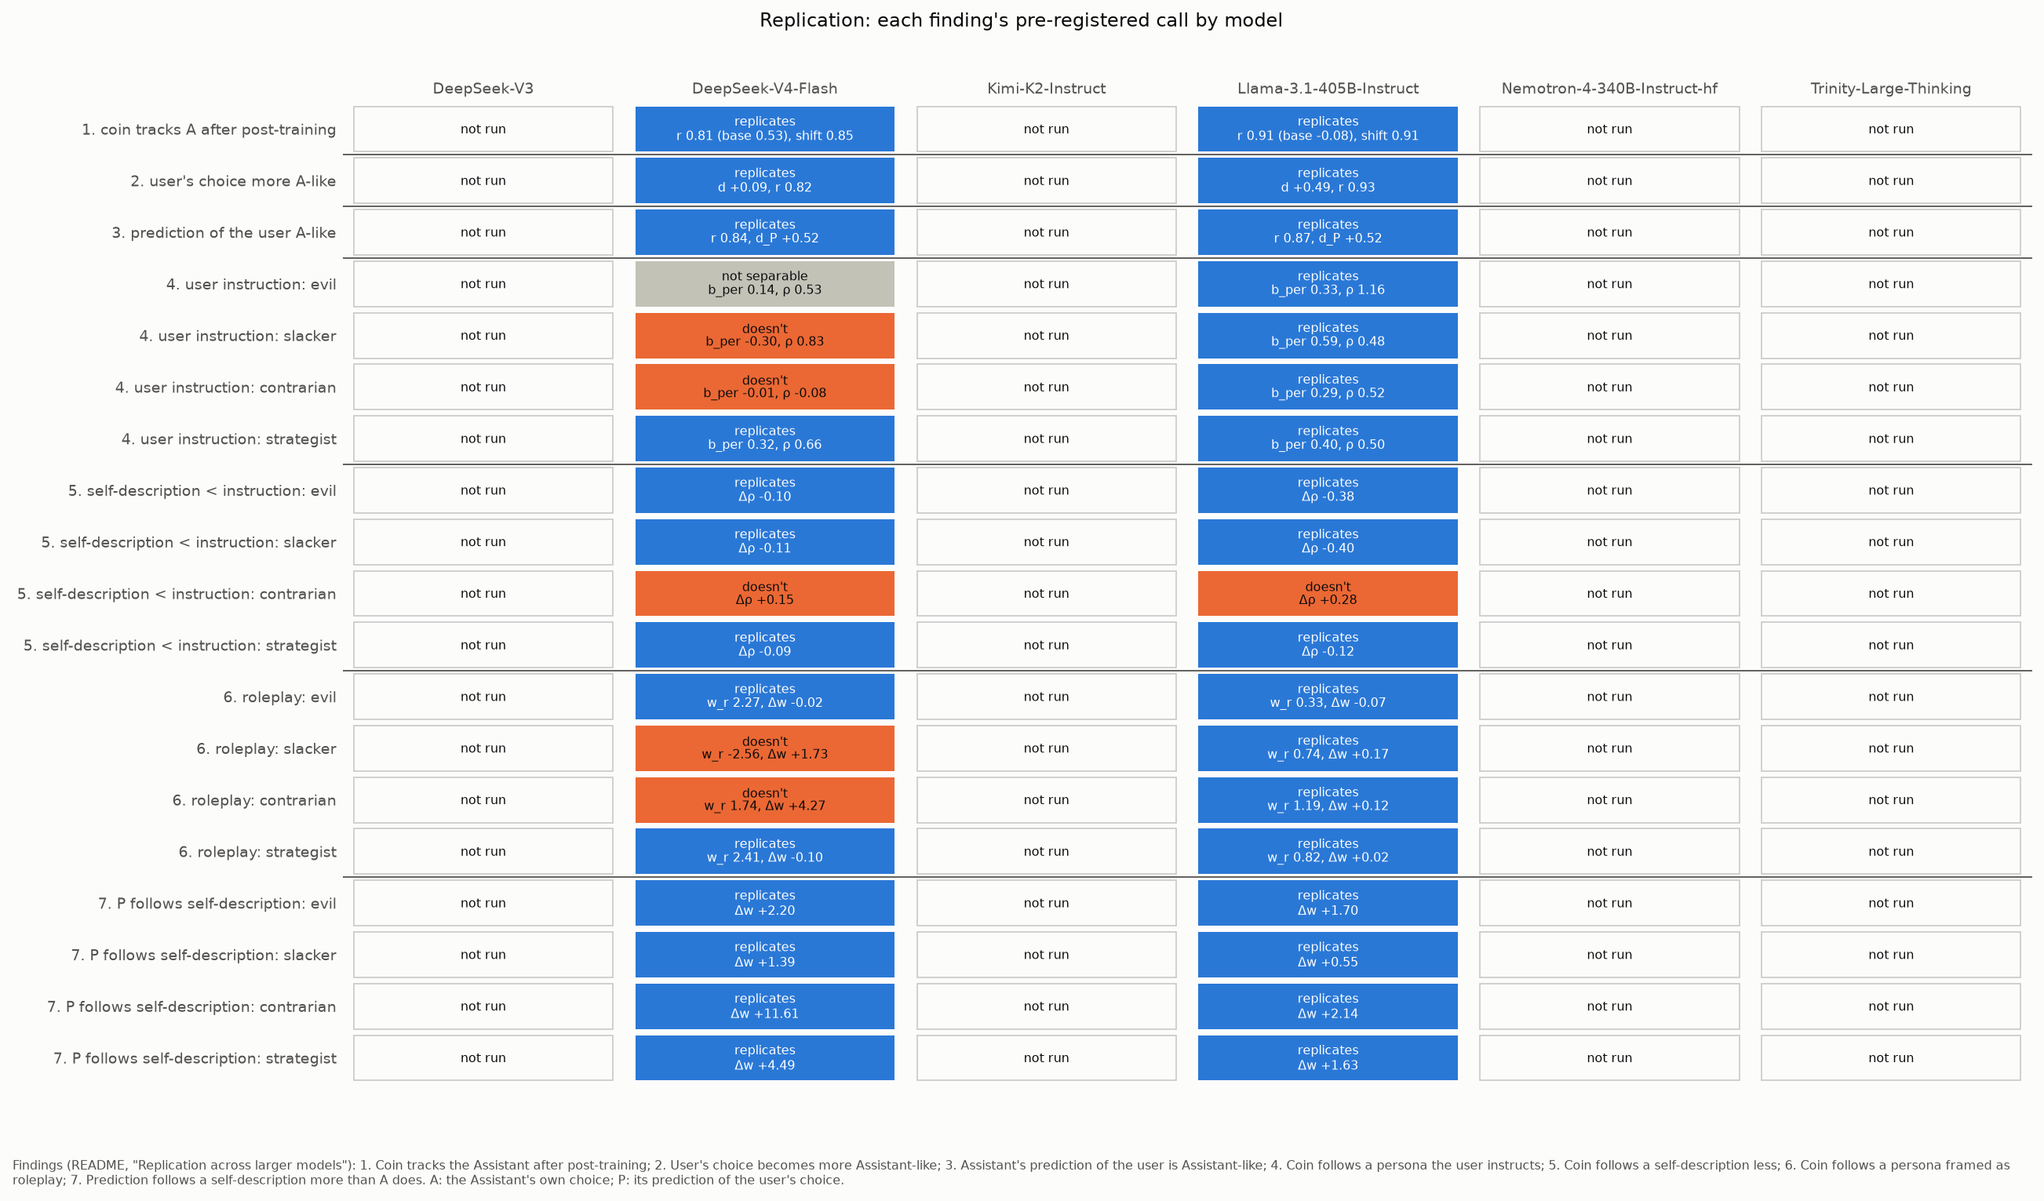
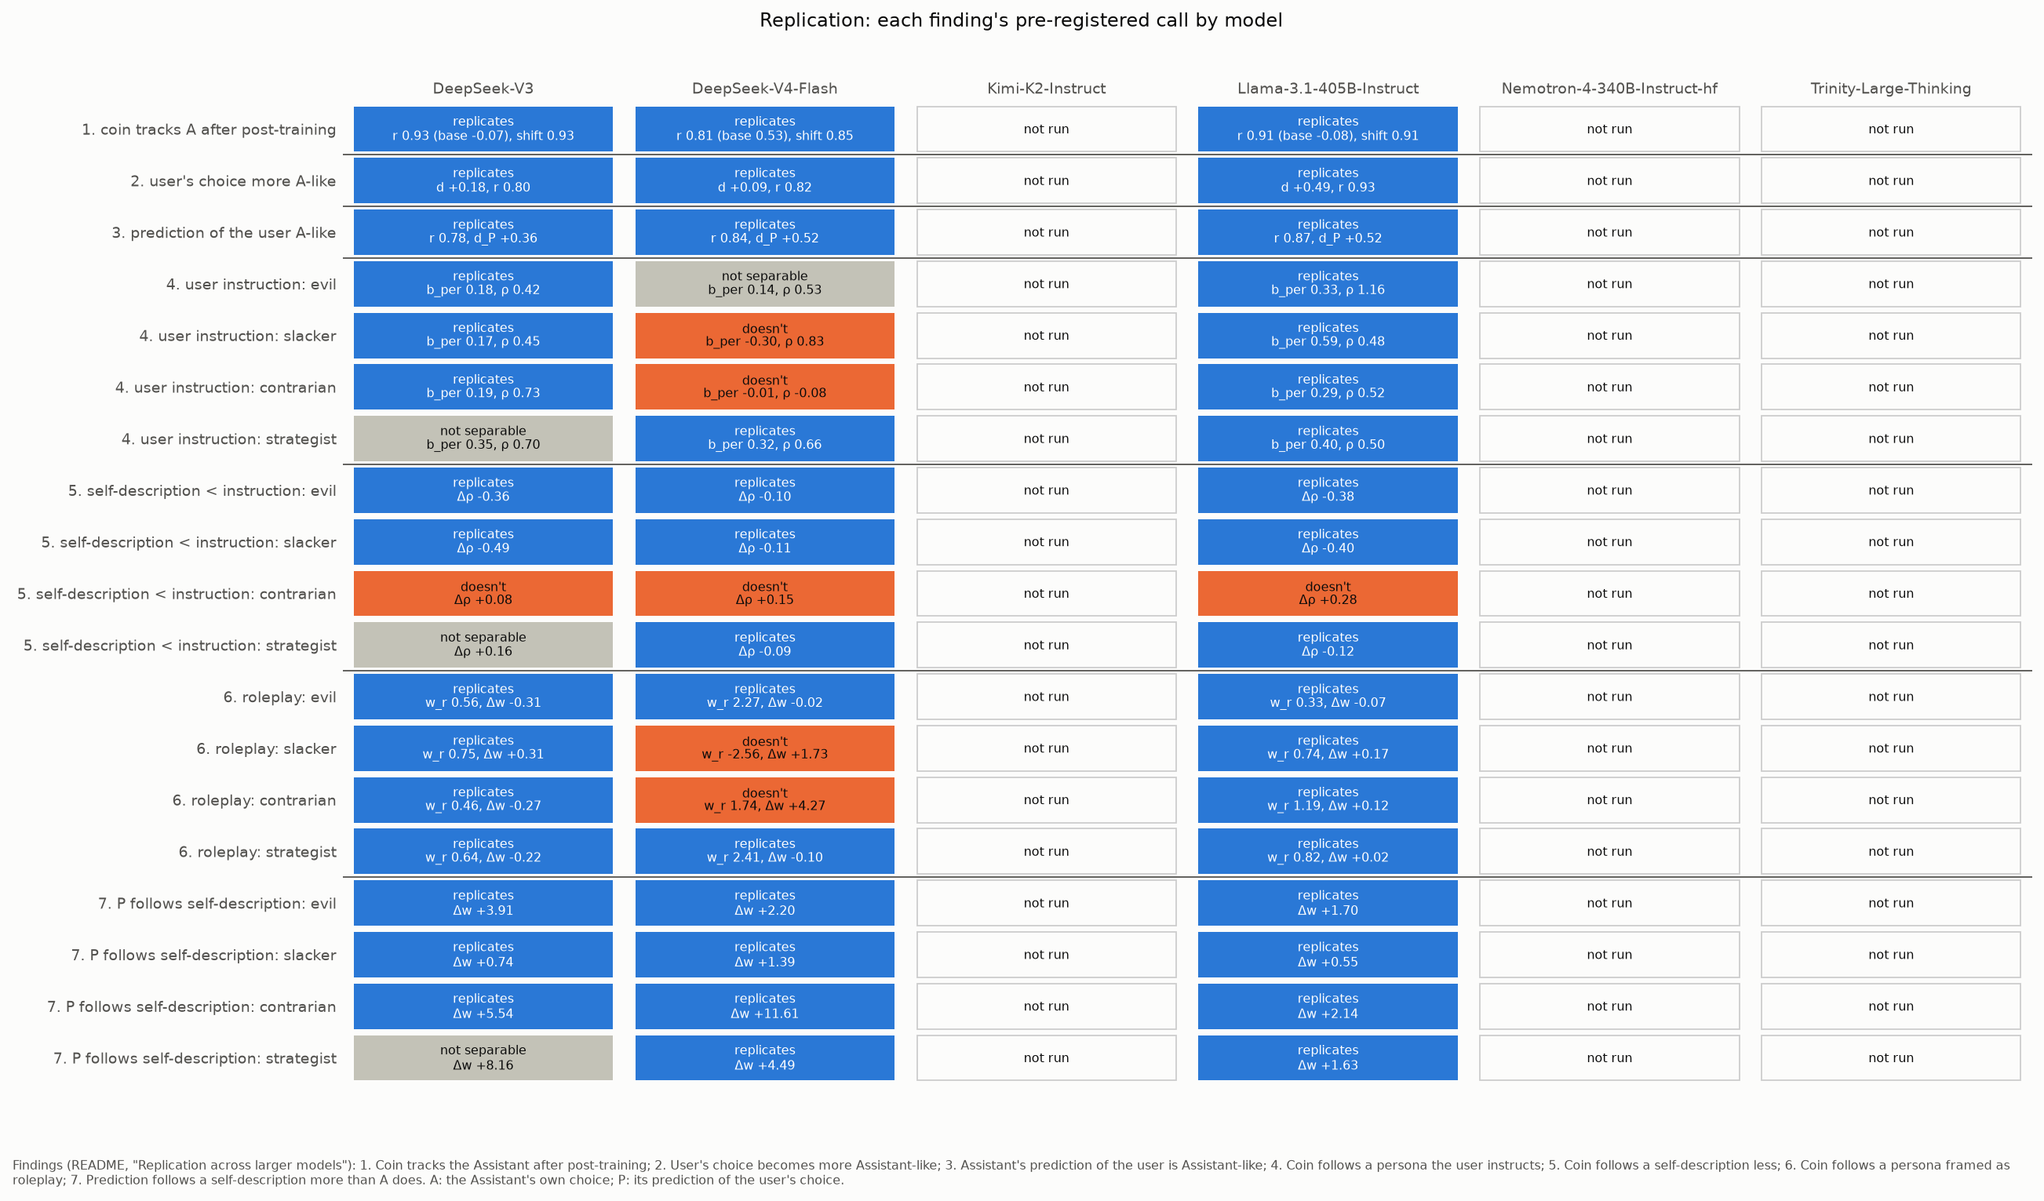
Replication results, DeepSeek V3: findings 1-3 replicate (r(A_f, C_f) 0.93, base -0.07); 13 of 16 persona calls replicate, strategist not separable on 4/5/7; contrarian's self-description again pulls the coin at least as much as its instruction (finding 5)

Changed region(s): [[0.1555, 0.0614, 0.3109, 0.921]]

diff --git a/replication/STATUS.md b/replication/STATUS.md
@@ -1,10 +1,10 @@
 # Replication status
 
-Regenerated by `uv run python replication_status.py` from the files on disk, 2026-11-11 08:59 UTC. Each cell: median outcome mass / split-half reliability for a scored condition; *pilot* where only the 24-pair pilot exists; – where nothing is. Flagged: median mass below 0.2 (reported, no call) and split-half below 0.9.
+Regenerated by `uv run python replication_status.py` from the files on disk, 2026-11-11 10:46 UTC. Each cell: median outcome mass / split-half reliability for a scored condition; *pilot* where only the 24-pair pilot exists; – where nothing is. Flagged: median mass below 0.2 (reported, no call) and split-half below 0.9.
 
 | model | key | base done | final done | pilot only | last finished | scoring hours |
 |---|---|---|---|---|---|---|
-| DeepSeek-V3 | `deepseek-v3` | 0/4 | 0/44 | 0 |  | 0.0 |
+| DeepSeek-V3 | `deepseek-v3` | 4/4 | 44/44 | 0 | instruct/coinflip@strategist+roleplay at 2026-11-11T10:42:13Z | 0.6 |
 | DeepSeek-V4-Flash | `deepseek-v4-flash` | 4/4 | 44/44 | 0 | instruct/coinflip@strategist+roleplay at 2026-11-11T06:20:36Z | 1.1 |
 | Kimi-K2-Instruct | `kimi-k2` | 0/4 | 0/44 | 0 |  | 0.0 |
 | Llama-3.1-405B-Instruct | `llama-405b` | 4/4 | 44/44 | 0 | instruct/coinflip@strategist+roleplay at 2026-11-11T08:53:07Z | 2.2 |
@@ -15,75 +15,75 @@ Regenerated by `uv run python replication_status.py` from the files on disk, 202
 
 | condition | DeepSeek-V3 | DeepSeek-V4-Flash | Kimi-K2-Instruct | Llama-3.1-405B-Instruct | Nemotron-4-340B-Instruct-hf | Trinity-Large-Thinking |
 |---|---|---|---|---|---|---|
-| `base/assistant` | – | 1.00 / 0.999 | – | 0.99 / 0.993 | – | – |
-| `base/coinflip` | – | 0.86 / 0.989 | – | 0.83 / 0.991 | – | – |
-| `base/user_choice` | – | 1.00 / 0.998 | – | 0.97 / 0.993 | – | – |
-| `base/predict_user` | – | 1.00 / 0.998 | – | 0.99 / 0.992 | – | – |
-| `instruct/assistant` | – | 1.00 / 0.999 | – | 1.00 / 0.998 | – | – |
-| `instruct/coinflip` | – | 0.89 / 0.996 | – | 0.60 / 0.999 | – | – |
-| `instruct/user_choice` | – | 0.99 / 0.998 | – | 1.00 / 0.998 | – | – |
-| `instruct/predict_user` | – | 1.00 / 0.998 | – | 1.00 / 0.998 | – | – |
-| `instruct/assistant@evil` | – | 1.00 / 0.997 | – | 1.00 / 0.998 | – | – |
-| `instruct/coinflip@evil` | – | 0.91 / 0.994 | – | 0.87 / 0.996 | – | – |
-| `instruct/assistant@evil+user` | – | 1.00 / 0.998 | – | 1.00 / 0.998 | – | – |
-| `instruct/coinflip@evil+user` | – | 0.92 / 0.996 | – | 0.81 / 0.997 | – | – |
-| `instruct/assistant@evil+self` | – | 1.00 / 0.999 | – | 1.00 / 0.998 | – | – |
-| `instruct/coinflip@evil+self` | – | 0.93 / 0.997 | – | 0.75 / 0.998 | – | – |
-| `instruct/user_choice@evil+self` | – | 0.99 / 0.998 | – | 1.00 / 0.998 | – | – |
-| `instruct/predict_user@evil+self` | – | 1.00 / 0.995 | – | 1.00 / 0.997 | – | – |
-| `instruct/assistant@evil+roleplay` | – | 1.00 / 0.997 | – | 1.00 / 0.998 | – | – |
-| `instruct/coinflip@evil+roleplay` | – | 0.92 / 0.993 | – | 0.89 / 0.997 | – | – |
-| `instruct/assistant@slacker` | – | 1.00 / 0.999 | – | 1.00 / 0.998 | – | – |
-| `instruct/coinflip@slacker` | – | 0.87 / 0.995 | – | 0.83 / 0.998 | – | – |
-| `instruct/assistant@slacker+user` | – | 1.00 / 0.999 | – | 1.00 / 0.998 | – | – |
-| `instruct/coinflip@slacker+user` | – | 0.89 / 0.996 | – | 0.74 / 0.998 | – | – |
-| `instruct/assistant@slacker+self` | – | 1.00 / 0.999 | – | 1.00 / 0.998 | – | – |
-| `instruct/coinflip@slacker+self` | – | 0.89 / 0.996 | – | 0.73 / 0.999 | – | – |
-| `instruct/user_choice@slacker+self` | – | 0.97 / 0.995 | – | 0.98 / 0.995 | – | – |
-| `instruct/predict_user@slacker+self` | – | 1.00 / 0.998 | – | 1.00 / 0.998 | – | – |
-| `instruct/assistant@slacker+roleplay` | – | 1.00 / 0.999 | – | 1.00 / 0.999 | – | – |
-| `instruct/coinflip@slacker+roleplay` | – | 0.89 / 0.993 | – | 0.83 / 0.999 | – | – |
-| `instruct/assistant@contrarian` | – | 1.00 / 0.998 | – | 1.00 / 0.998 | – | – |
-| `instruct/coinflip@contrarian` | – | 0.88 / 0.980 | – | 0.78 / 0.996 | – | – |
-| `instruct/assistant@contrarian+user` | – | 1.00 / 0.998 | – | 1.00 / 0.998 | – | – |
-| `instruct/coinflip@contrarian+user` | – | 0.93 / 0.974 | – | 0.74 / 0.997 | – | – |
-| `instruct/assistant@contrarian+self` | – | 1.00 / 0.998 | – | 1.00 / 0.998 | – | – |
-| `instruct/coinflip@contrarian+self` | – | 0.92 / 0.976 | – | 0.70 / 0.999 | – | – |
-| `instruct/user_choice@contrarian+self` | – | 0.96 / 0.996 | – | 0.97 / 0.998 | – | – |
-| `instruct/predict_user@contrarian+self` | – | 1.00 / 0.998 | – | 1.00 / 0.998 | – | – |
-| `instruct/assistant@contrarian+roleplay` | – | 1.00 / 0.996 | – | 1.00 / 0.998 | – | – |
-| `instruct/coinflip@contrarian+roleplay` | – | 0.93 / 0.978 | – | 0.80 / 0.992 | – | – |
-| `instruct/assistant@strategist` | – | 1.00 / 0.999 | – | 1.00 / 0.998 | – | – |
-| `instruct/coinflip@strategist` | – | 0.88 / 0.995 | – | 0.82 / 0.997 | – | – |
-| `instruct/assistant@strategist+user` | – | 1.00 / 0.999 | – | 1.00 / 0.998 | – | – |
-| `instruct/coinflip@strategist+user` | – | 0.90 / 0.996 | – | 0.77 / 0.997 | – | – |
-| `instruct/assistant@strategist+self` | – | 1.00 / 0.999 | – | 1.00 / 0.998 | – | – |
-| `instruct/coinflip@strategist+self` | – | 0.90 / 0.996 | – | 0.68 / 0.998 | – | – |
-| `instruct/user_choice@strategist+self` | – | 0.99 / 0.998 | – | 0.99 / 0.998 | – | – |
-| `instruct/predict_user@strategist+self` | – | 1.00 / 0.998 | – | 1.00 / 0.998 | – | – |
-| `instruct/assistant@strategist+roleplay` | – | 1.00 / 0.999 | – | 1.00 / 0.998 | – | – |
-| `instruct/coinflip@strategist+roleplay` | – | 0.93 / 0.995 | – | 0.84 / 0.997 | – | – |
+| `base/assistant` | 0.99 / 0.994 | 1.00 / 0.999 | – | 0.99 / 0.993 | – | – |
+| `base/coinflip` | 0.86 / 0.972 | 0.86 / 0.989 | – | 0.83 / 0.991 | – | – |
+| `base/user_choice` | 0.96 / 0.993 | 1.00 / 0.998 | – | 0.97 / 0.993 | – | – |
+| `base/predict_user` | 0.99 / 0.993 | 1.00 / 0.998 | – | 0.99 / 0.992 | – | – |
+| `instruct/assistant` | 1.00 / 0.999 | 1.00 / 0.999 | – | 1.00 / 0.998 | – | – |
+| `instruct/coinflip` | 0.90 / 0.997 | 0.89 / 0.996 | – | 0.60 / 0.999 | – | – |
+| `instruct/user_choice` | 1.00 / 0.998 | 0.99 / 0.998 | – | 1.00 / 0.998 | – | – |
+| `instruct/predict_user` | 1.00 / 0.998 | 1.00 / 0.998 | – | 1.00 / 0.998 | – | – |
+| `instruct/assistant@evil` | 1.00 / 0.998 | 1.00 / 0.997 | – | 1.00 / 0.998 | – | – |
+| `instruct/coinflip@evil` | 0.93 / 0.995 | 0.91 / 0.994 | – | 0.87 / 0.996 | – | – |
+| `instruct/assistant@evil+user` | 1.00 / 0.997 | 1.00 / 0.998 | – | 1.00 / 0.998 | – | – |
+| `instruct/coinflip@evil+user` | 0.94 / 0.993 | 0.92 / 0.996 | – | 0.81 / 0.997 | – | – |
+| `instruct/assistant@evil+self` | 1.00 / 0.998 | 1.00 / 0.999 | – | 1.00 / 0.998 | – | – |
+| `instruct/coinflip@evil+self` | 0.93 / 0.996 | 0.93 / 0.997 | – | 0.75 / 0.998 | – | – |
+| `instruct/user_choice@evil+self` | 0.99 / 0.996 | 0.99 / 0.998 | – | 1.00 / 0.998 | – | – |
+| `instruct/predict_user@evil+self` | 1.00 / 0.999 | 1.00 / 0.995 | – | 1.00 / 0.997 | – | – |
+| `instruct/assistant@evil+roleplay` | 1.00 / 0.998 | 1.00 / 0.997 | – | 1.00 / 0.998 | – | – |
+| `instruct/coinflip@evil+roleplay` | 0.96 / 0.994 | 0.92 / 0.993 | – | 0.89 / 0.997 | – | – |
+| `instruct/assistant@slacker` | 1.00 / 0.999 | 1.00 / 0.999 | – | 1.00 / 0.998 | – | – |
+| `instruct/coinflip@slacker` | 0.93 / 0.998 | 0.87 / 0.995 | – | 0.83 / 0.998 | – | – |
+| `instruct/assistant@slacker+user` | 1.00 / 0.998 | 1.00 / 0.999 | – | 1.00 / 0.998 | – | – |
+| `instruct/coinflip@slacker+user` | 0.96 / 0.996 | 0.89 / 0.996 | – | 0.74 / 0.998 | – | – |
+| `instruct/assistant@slacker+self` | 1.00 / 0.998 | 1.00 / 0.999 | – | 1.00 / 0.998 | – | – |
+| `instruct/coinflip@slacker+self` | 0.96 / 0.996 | 0.89 / 0.996 | – | 0.73 / 0.999 | – | – |
+| `instruct/user_choice@slacker+self` | 1.00 / 0.997 | 0.97 / 0.995 | – | 0.98 / 0.995 | – | – |
+| `instruct/predict_user@slacker+self` | 1.00 / 0.998 | 1.00 / 0.998 | – | 1.00 / 0.998 | – | – |
+| `instruct/assistant@slacker+roleplay` | 1.00 / 0.998 | 1.00 / 0.999 | – | 1.00 / 0.999 | – | – |
+| `instruct/coinflip@slacker+roleplay` | 0.98 / 0.998 | 0.89 / 0.993 | – | 0.83 / 0.999 | – | – |
+| `instruct/assistant@contrarian` | 1.00 / 0.998 | 1.00 / 0.998 | – | 1.00 / 0.998 | – | – |
+| `instruct/coinflip@contrarian` | 0.93 / 0.993 | 0.88 / 0.980 | – | 0.78 / 0.996 | – | – |
+| `instruct/assistant@contrarian+user` | 1.00 / 0.998 | 1.00 / 0.998 | – | 1.00 / 0.998 | – | – |
+| `instruct/coinflip@contrarian+user` | 0.97 / 0.986 | 0.93 / 0.974 | – | 0.74 / 0.997 | – | – |
+| `instruct/assistant@contrarian+self` | 1.00 / 0.998 | 1.00 / 0.998 | – | 1.00 / 0.998 | – | – |
+| `instruct/coinflip@contrarian+self` | 0.97 / 0.993 | 0.92 / 0.976 | – | 0.70 / 0.999 | – | – |
+| `instruct/user_choice@contrarian+self` | 0.93 / 0.992 | 0.96 / 0.996 | – | 0.97 / 0.998 | – | – |
+| `instruct/predict_user@contrarian+self` | 1.00 / 0.999 | 1.00 / 0.998 | – | 1.00 / 0.998 | – | – |
+| `instruct/assistant@contrarian+roleplay` | 1.00 / 0.997 | 1.00 / 0.996 | – | 1.00 / 0.998 | – | – |
+| `instruct/coinflip@contrarian+roleplay` | 0.97 / 0.981 | 0.93 / 0.978 | – | 0.80 / 0.992 | – | – |
+| `instruct/assistant@strategist` | 1.00 / 0.998 | 1.00 / 0.999 | – | 1.00 / 0.998 | – | – |
+| `instruct/coinflip@strategist` | 0.92 / 0.996 | 0.88 / 0.995 | – | 0.82 / 0.997 | – | – |
+| `instruct/assistant@strategist+user` | 1.00 / 0.998 | 1.00 / 0.999 | – | 1.00 / 0.998 | – | – |
+| `instruct/coinflip@strategist+user` | 0.93 / 0.996 | 0.90 / 0.996 | – | 0.77 / 0.997 | – | – |
+| `instruct/assistant@strategist+self` | 1.00 / 0.999 | 1.00 / 0.999 | – | 1.00 / 0.998 | – | – |
+| `instruct/coinflip@strategist+self` | 0.93 / 0.997 | 0.90 / 0.996 | – | 0.68 / 0.998 | – | – |
+| `instruct/user_choice@strategist+self` | 1.00 / 0.998 | 0.99 / 0.998 | – | 0.99 / 0.998 | – | – |
+| `instruct/predict_user@strategist+self` | 1.00 / 0.999 | 1.00 / 0.998 | – | 1.00 / 0.998 | – | – |
+| `instruct/assistant@strategist+roleplay` | 1.00 / 0.999 | 1.00 / 0.999 | – | 1.00 / 0.998 | – | – |
+| `instruct/coinflip@strategist+roleplay` | 0.95 / 0.996 | 0.93 / 0.995 | – | 0.84 / 0.997 | – | – |
 
 ## Calls (from the last `replication_analysis.py` run)
 
 | finding | DeepSeek-V3 | DeepSeek-V4-Flash | Kimi-K2-Instruct | Llama-3.1-405B-Instruct | Nemotron-4-340B-Instruct-hf | Trinity-Large-Thinking |
 |---|---|---|---|---|---|---|
-| 1. Coin tracks the Assistant after post-training | – | replicates (r 0.81 (base 0.53), shift 0.85) | – | replicates (r 0.91 (base -0.08), shift 0.91) | – | – |
-| 2. User's choice becomes more Assistant-like | – | replicates (d +0.09, r 0.82) | – | replicates (d +0.49, r 0.93) | – | – |
-| 3. Assistant's prediction of the user is Assistant-like | – | replicates (r 0.84, d_P +0.52) | – | replicates (r 0.87, d_P +0.52) | – | – |
-| 4. Coin follows a persona the user instructs, evil | – | not separable (b_per 0.14, ρ 0.53) | – | replicates (b_per 0.33, ρ 1.16) | – | – |
-| 4. Coin follows a persona the user instructs, slacker | – | doesn't (b_per -0.30, ρ 0.83) | – | replicates (b_per 0.59, ρ 0.48) | – | – |
-| 4. Coin follows a persona the user instructs, contrarian | – | doesn't (b_per -0.01, ρ -0.08) | – | replicates (b_per 0.29, ρ 0.52) | – | – |
-| 4. Coin follows a persona the user instructs, strategist | – | replicates (b_per 0.32, ρ 0.66) | – | replicates (b_per 0.40, ρ 0.50) | – | – |
-| 5. Coin follows a self-description less, evil | – | replicates (Δρ -0.10) | – | replicates (Δρ -0.38) | – | – |
-| 5. Coin follows a self-description less, slacker | – | replicates (Δρ -0.11) | – | replicates (Δρ -0.40) | – | – |
-| 5. Coin follows a self-description less, contrarian | – | doesn't (Δρ +0.15) | – | doesn't (Δρ +0.28) | – | – |
-| 5. Coin follows a self-description less, strategist | – | replicates (Δρ -0.09) | – | replicates (Δρ -0.12) | – | – |
-| 6. Coin follows a persona framed as roleplay, evil | – | replicates (w_r 2.27, Δw -0.02) | – | replicates (w_r 0.33, Δw -0.07) | – | – |
-| 6. Coin follows a persona framed as roleplay, slacker | – | doesn't (w_r -2.56, Δw +1.73) | – | replicates (w_r 0.74, Δw +0.17) | – | – |
-| 6. Coin follows a persona framed as roleplay, contrarian | – | doesn't (w_r 1.74, Δw +4.27) | – | replicates (w_r 1.19, Δw +0.12) | – | – |
-| 6. Coin follows a persona framed as roleplay, strategist | – | replicates (w_r 2.41, Δw -0.10) | – | replicates (w_r 0.82, Δw +0.02) | – | – |
-| 7. Prediction follows a self-description more than A does, evil | – | replicates (Δw +2.20) | – | replicates (Δw +1.70) | – | – |
-| 7. Prediction follows a self-description more than A does, slacker | – | replicates (Δw +1.39) | – | replicates (Δw +0.55) | – | – |
-| 7. Prediction follows a self-description more than A does, contrarian | – | replicates (Δw +11.61) | – | replicates (Δw +2.14) | – | – |
-| 7. Prediction follows a self-description more than A does, strategist | – | replicates (Δw +4.49) | – | replicates (Δw +1.63) | – | – |
+| 1. Coin tracks the Assistant after post-training | replicates (r 0.93 (base -0.07), shift 0.93) | replicates (r 0.81 (base 0.53), shift 0.85) | – | replicates (r 0.91 (base -0.08), shift 0.91) | – | – |
+| 2. User's choice becomes more Assistant-like | replicates (d +0.18, r 0.80) | replicates (d +0.09, r 0.82) | – | replicates (d +0.49, r 0.93) | – | – |
+| 3. Assistant's prediction of the user is Assistant-like | replicates (r 0.78, d_P +0.36) | replicates (r 0.84, d_P +0.52) | – | replicates (r 0.87, d_P +0.52) | – | – |
+| 4. Coin follows a persona the user instructs, evil | replicates (b_per 0.18, ρ 0.42) | not separable (b_per 0.14, ρ 0.53) | – | replicates (b_per 0.33, ρ 1.16) | – | – |
+| 4. Coin follows a persona the user instructs, slacker | replicates (b_per 0.17, ρ 0.45) | doesn't (b_per -0.30, ρ 0.83) | – | replicates (b_per 0.59, ρ 0.48) | – | – |
+| 4. Coin follows a persona the user instructs, contrarian | replicates (b_per 0.19, ρ 0.73) | doesn't (b_per -0.01, ρ -0.08) | – | replicates (b_per 0.29, ρ 0.52) | – | – |
+| 4. Coin follows a persona the user instructs, strategist | not separable (b_per 0.35, ρ 0.70) | replicates (b_per 0.32, ρ 0.66) | – | replicates (b_per 0.40, ρ 0.50) | – | – |
+| 5. Coin follows a self-description less, evil | replicates (Δρ -0.36) | replicates (Δρ -0.10) | – | replicates (Δρ -0.38) | – | – |
+| 5. Coin follows a self-description less, slacker | replicates (Δρ -0.49) | replicates (Δρ -0.11) | – | replicates (Δρ -0.40) | – | – |
+| 5. Coin follows a self-description less, contrarian | doesn't (Δρ +0.08) | doesn't (Δρ +0.15) | – | doesn't (Δρ +0.28) | – | – |
+| 5. Coin follows a self-description less, strategist | not separable (Δρ +0.16) | replicates (Δρ -0.09) | – | replicates (Δρ -0.12) | – | – |
+| 6. Coin follows a persona framed as roleplay, evil | replicates (w_r 0.56, Δw -0.31) | replicates (w_r 2.27, Δw -0.02) | – | replicates (w_r 0.33, Δw -0.07) | – | – |
+| 6. Coin follows a persona framed as roleplay, slacker | replicates (w_r 0.75, Δw +0.31) | doesn't (w_r -2.56, Δw +1.73) | – | replicates (w_r 0.74, Δw +0.17) | – | – |
+| 6. Coin follows a persona framed as roleplay, contrarian | replicates (w_r 0.46, Δw -0.27) | doesn't (w_r 1.74, Δw +4.27) | – | replicates (w_r 1.19, Δw +0.12) | – | – |
+| 6. Coin follows a persona framed as roleplay, strategist | replicates (w_r 0.64, Δw -0.22) | replicates (w_r 2.41, Δw -0.10) | – | replicates (w_r 0.82, Δw +0.02) | – | – |
+| 7. Prediction follows a self-description more than A does, evil | replicates (Δw +3.91) | replicates (Δw +2.20) | – | replicates (Δw +1.70) | – | – |
+| 7. Prediction follows a self-description more than A does, slacker | replicates (Δw +0.74) | replicates (Δw +1.39) | – | replicates (Δw +0.55) | – | – |
+| 7. Prediction follows a self-description more than A does, contrarian | replicates (Δw +5.54) | replicates (Δw +11.61) | – | replicates (Δw +2.14) | – | – |
+| 7. Prediction follows a self-description more than A does, strategist | not separable (Δw +8.16) | replicates (Δw +4.49) | – | replicates (Δw +1.63) | – | – |

diff --git a/README.md b/README.md
@@ -4905,6 +4905,33 @@ are in `outputs/replication/llama-405b/`. No earlier HF run of this model exists
 - **Evil under roleplay:** the coin keeps a large pull toward the default Assistant (b_def 0.57, w_r 0.33). The 70B's
   w_r was 0.73.
 
+### Results: DeepSeek V3 (2026-11-11)
+
+**Run.** 8x B200: the base took 41 minutes and the final 68, each with a ~35-minute load. vLLM processes the FP8
+block-scaled weights at about 350 MB/s, against ~2 GB/s for Llama's bf16. Every cell passes the gates. Results are in
+`outputs/replication/deepseek-v3/`.
+
+![DeepSeek V3 calls](figures/deepseek-v3/summary.png)
+
+| finding | evil | slacker | contrarian | strategist |
+|---|---|---|---|---|
+| 1. coin tracks the Assistant | replicates: r(A_f, C_f) 0.93; base -0.07; r shift 0.93 | | | |
+| 2. user's choice more Assistant-like | replicates: d +0.18, r(A_f, U_f) 0.80 | | | |
+| 3. prediction of the user Assistant-like | replicates: r(A_f, P_f) 0.78, d_P +0.36; Δ -0.12 ("own choice") | | | |
+| 4. coin follows a user instruction | replicates (ρ_user 0.42) | replicates (0.45) | replicates (0.73) | not separable |
+| 5. self-description less than instruction | replicates (Δρ -0.36) | replicates (-0.49) | **doesn't** (+0.08) | not separable |
+| 6. coin follows roleplay | replicates (w_r 0.56) | replicates (0.75) | replicates (0.46) | replicates (0.64) |
+| 7. prediction follows self-description more | replicates | replicates | replicates | not separable |
+
+**First observations:**
+- **V3's coin tracks its Assistant as closely as Llama's** (0.93), and its base shows none of it (-0.07).
+- **Contrarian is again the exception on finding 5,** as in V4 Flash and Llama 405B: its self-description pulls the coin
+  at least as much as its instruction (ρ_self 0.81, ρ_user 0.73).
+- **Strategist barely moves V3's Assistant** under the system prompt (r 0.94 with its default), so findings 4, 5 and 7
+  can't be called for it.
+- **On finding 3's secondary measure, V3's user's choice follows the Assistant's own choice more than its prediction**
+  (Δ -0.12, "own choice"), like Gemma 4 31B in the predict-user section.
+
 ## Tasks
 
 From the canonical 6,000-task set of Gilg et al., [Probing Persona-Dependent
